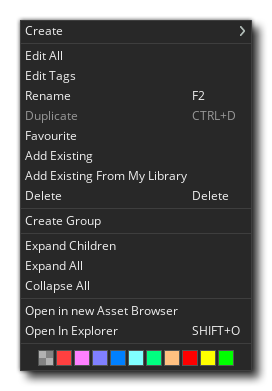
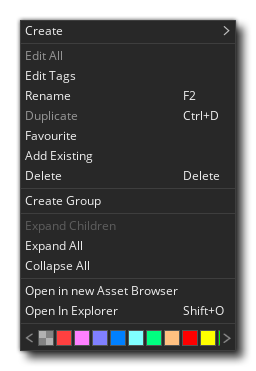
docs(general): Asset Browser: Remove option to "Add Existing from My Library" YoYoGames/GameMaker-Bugs#9907
Updated the screenshot on "The Asset Browser" page and also removed the option from the list

diff --git a/Manual/contents/Introduction/The_Asset_Browser.htm b/Manual/contents/Introduction/The_Asset_Browser.htm
@@ -110,7 +110,6 @@
     <li><strong>Duplicate </strong>- Create a duplicate of the asset or assets that have been selected.</li>
     <li><strong>Favourite </strong>- Flag an asset or assets as being a favourite, adding it to the Quick Access section at the top of the Asset browser.</li>
     <li><strong>Add Existing</strong> - Add existing assets from a different <span data-keyref="GameMaker Name">GameMaker</span> project folder. Please note that assets created using a version anterior to 2.3.0 will require conversion as the project file format changed with the 2.3.0 update. This means it may be preferable to import the entire project and converting everything then saving it to a new location if the assets are imported frequently into other projects.</li>
-    <li><strong>Add Existing From My Library</strong> - Add assets to the asset list from an item in your Marketplace library. Please note that Marketplace assets created using a version anterior to 2.3.0 will require conversion as the project file format changed with the 2.3.0 update.</li>
     <li><strong>Delete </strong>- Delete the selected asset(s) from the project. This cannot be undone!</li>
     <li><strong>Create Group</strong> - Add a new folder group to the asset list.</li>
     <li><strong>Expand Children</strong> - Expand the currently selected folder group along with any sub-folders it may contain.</li>
@@ -325,7 +324,7 @@
         <div style="float:right">Next: <a data-xref="{title}" href="Compiling.htm">Compiling</a></div>
       </div>
     </div>
-    <h5><span data-keyref="Copyright Notice">© Copyright YoYo Games Ltd. 2024 All Rights Reserved</span></h5>
+    <h5><span data-keyref="Copyright Notice">© Copyright YoYo Games Ltd. 2025 All Rights Reserved</span></h5>
   </div>
   <!-- KEYWORDS
 Assets
